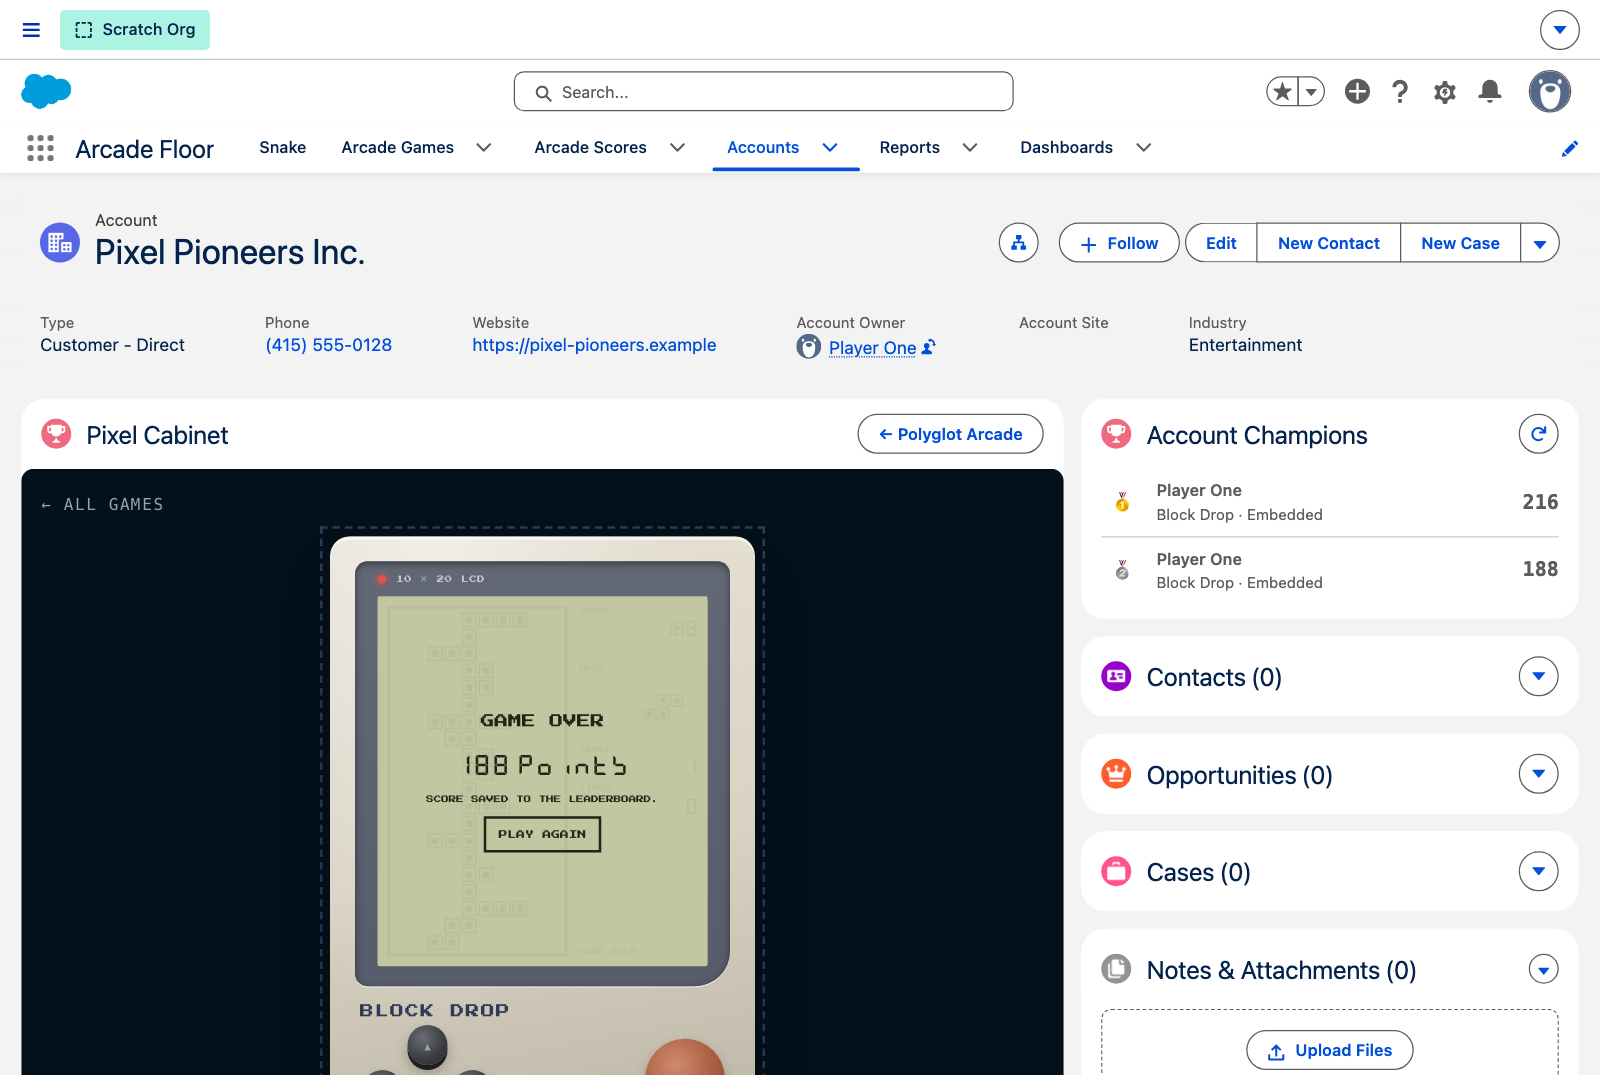
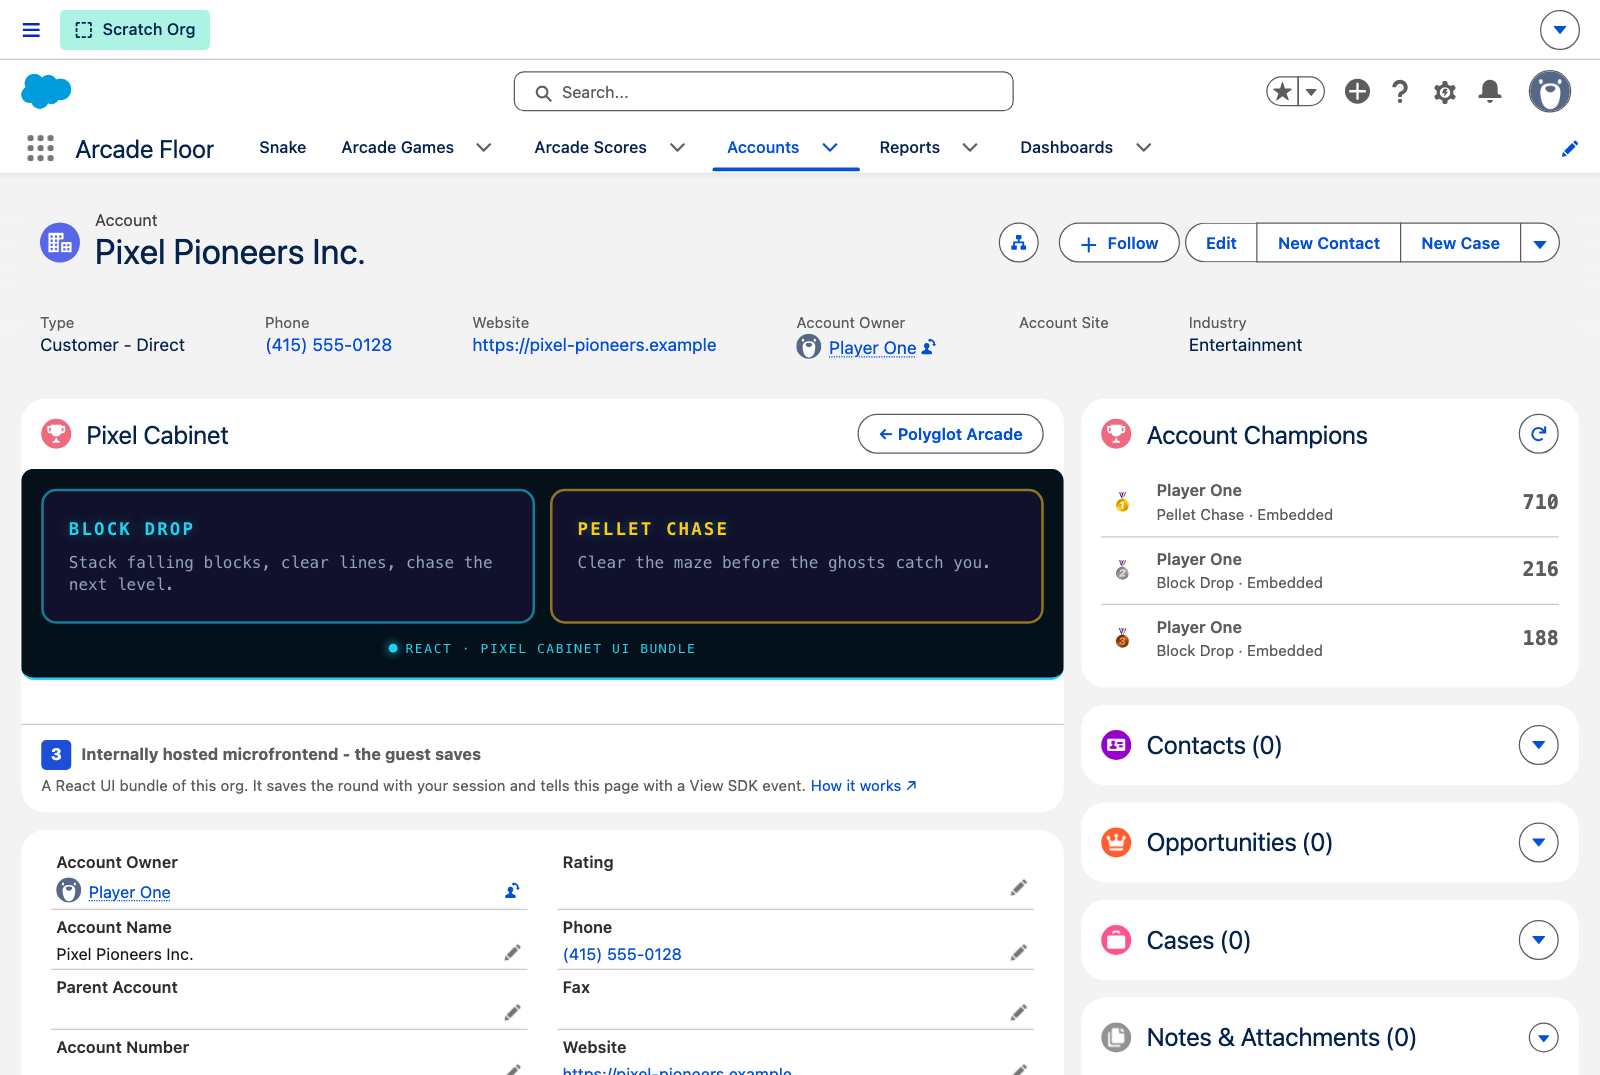
docs(images): show the Account page with the cabinet's game picker
The pattern 3 screenshot now shows the page as a player finds it: the game
picker in the frame, the pattern 3 footer of the host card and the Account's
leaderboard.

diff --git a/docs/architecture/patterns.md b/docs/architecture/patterns.md
@@ -49,7 +49,7 @@ The launch target is the **App URL** of the React game record, which the setup s
 
 The `arcadeGameHost` LWC frames the cabinet's `/embed` route. The cabinet has the player's session and saves the round itself. Admins pick the game in Lightning App Builder; on an Account record page such as **Arcade Account** every round is attributed to that Account.
 
-<img class="shot" src="/images/account-page.png" alt="The Arcade Account page of Pixel Pioneers Inc. in the Arcade Floor app: the embedded Pixel Cabinet after a Block Drop round, with the way back to Polyglot Arcade, and the Account Champions leaderboard listing the rounds played on this Account" />
+<img class="shot" src="/images/account-page.png" alt="The Arcade Account page of Pixel Pioneers Inc. in the Arcade Floor app: the embedded Pixel Cabinet offers Block Drop and Pellet Chase, the host card names pattern 3 in its footer, and the Account Champions leaderboard lists the rounds played on this Account" />
 
 The setup seeds the showcase Account **Pixel Pioneers Inc.**, and the hub lobby links its page from Block Drop and Pellet Chase - _or embedded on the Pixel Pioneers Inc. Account page ↗_. Rounds played there show up in the Account's leaderboard and carry the Account on the score record.
 
